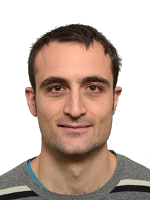
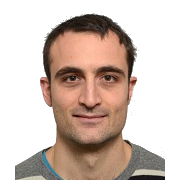
ready

diff --git a/pages/index.js b/pages/index.js
@@ -6,9 +6,10 @@ import { Card } from '../components/presentational/card'
 import Tag from '../components/presentational/tag'
 
 import data from '../data'
-import { extractUniqueTech } from '../helpers'
+import { extractUniqueTech, boldName } from '../helpers'
 
 export default function Home() {
+	const { firstName, lastName, home, profileImg, webApps } = { ...data }
   return (
 		<Layout home>
 
@@ -20,59 +21,39 @@ export default function Home() {
 				<div className="mt-5 text-center">
 					<Image
 						priority
-						src="/images/profile-square.png"
-						height={150}
-						width={150}
-						alt="Giacomo Mariani"
-						className="rounded-full h-24 w-24"
+						src={profileImg.src}
+						height={profileImg.height}
+						width={profileImg.width}
+						alt={`${firstName} ${lastName}`}
+						className="rounded-full h-24 w-24 border-2 border-mint border-solid"
 					/>
 				</div>
 				<div className="p-2 mt-5">
-					<h1 className="mb-5">Hi! I am <b>Giacomo Mariani.</b></h1>
-					<h2 className="md:ml-9 md:pl-9">This is my web development portfolio.</h2>
+					<h1 className="mb-5">{boldName(home.heading, firstName, lastName)}</h1>
+					<h2 className="md:ml-9 md:pl-9">{home.intro}</h2>
 				</div>
       </section>
 
 			<section>
 				<h2 className="text-xl font-medium mb-1 mt-3 text-center">Projects</h2>
 				<div className="sm:flex sm:flex-wrap gap-5 justify-between mt-8 mb-5 mr-auto ml-auto w-11/12">
-
-						<Card 
-							link="/webapps/favorite-blogs"
-							heading="Favorite Blogs web app &rarr;"
-							text="A web application to save and share your favorite blogs"
-						/>
-
-						<Card 
-							link="/webapps/zlib-pump"
-							heading="Zlib Pump web app &rarr;"
-							text="A web application to inflate and deflate zlib strings"
-						/>
-
-						<Card
-							link="/webapps/jsav-player"
-							heading="Record and replay algorithm exercises &rarr;"
-							text="A test application for recording and replaying visual algorithm simulation exercises"
-						/>
-
-						<Card
-							link="/webapps/iwdap"
-							heading="Introduction to Web Development and Programming &rarr;"
-							text="An online course where I have contributed as web developer and teaching assistant"
-						/>
-				
-						<Card
-							link="/webapps/portfolio"
-							heading="Web Development Portfolio &rarr;"
-							text="This web site I created to share my web development projects"
-						/>
+					{
+						Object.entries(webApps).map( (e, i) => {		
+							return <Card 
+								link={ `/webapps/${e[0]}` }
+								heading={e[1].title?? ''}
+								text={e[1].short?? ''}
+								key={i}
+							/>
+						})
+					}
 				</div>
 			</section>
 			
 			<section>
 				<h2 className="text-xl font-medium mb-1 mt-3 text-center">Technologies</h2>
 				<div className="flex flex-wrap mb-10 mt-3">
-					{ Array.from(extractUniqueTech(data.webApps)).concat('SQL').map( (t, i) => <Tag key={i} text={t} />)}
+					{ Array.from(extractUniqueTech(webApps)).concat('SQL').map( (t, i) => <Tag key={i} text={t} />)}
 				</div>
 			</section>
 

diff --git a/pages/publications/index.js b/pages/publications/index.js
@@ -1,22 +1,25 @@
 import Layout from '../../components/container/layout'
 import Anchor from '../../components/presentational/anchor'
-import data from '../../data/publications'
+
+import data from '../../data'
+import { boldName } from '../../helpers'
 
 export default function Publications() {
+	const { firstName, lastName, publications }  = { ...data }
 	return ( 
 		<Layout>
 			<h1 className="text-2xl font-medium mb-1 mt-4" >Publications</h1>
 			<p className="mt-3">
-				I am a doctoral student at the Computer Science department of Aalto University. Here are my academic publications.
+				{ publications.intro }
 			</p>
 			<ul>
 					{
-						data.map( (p, i) => {
+						publications.articles.map( (p, i) => {
 							return (
 								<div key={i} className="mt-3">
 								<li>
 									<Anchor href={p.url} newWindow>
-										{ boldName(p.title, 'Giacomo', 'Mariani')}
+										{ boldName(p.title, firstName, lastName)}
 									</Anchor>
 								</li>
 								</div>
@@ -26,32 +29,4 @@ export default function Publications() {
 			</ul>
 		</Layout>
 	)
-}
-
-function boldName(text, firstName, lastName){
-	if(text.includes(`${firstName} ${lastName}`)) {
-		return (
-		<> 
-			{text.split(`${firstName} ${lastName}`)[0]} <b>{`${firstName} ${lastName}`}</b> {text.split(`${firstName} ${lastName}`)[1]}
-		</>
-		)
-	} else if(text.includes(`${lastName} ${firstName}`)) {
-		return (
-		<> 
-			{text.split(`${lastName} ${firstName}`)[0]} <b>{`${lastName} ${firstName}`}</b> {text.split(`${lastName} ${firstName}`)[1]}
-		</>
-		)
-	} else	if(text.includes(`${firstName}, ${lastName}`)) {
-		return (
-		<> 
-			{text.split(`${firstName}, ${lastName}`)[0]} <b>{`${firstName}, ${lastName}`}</b> {text.split(`${firstName}, ${lastName}`)[1]}
-		</>
-		)
-	} else if(text.includes(`${lastName}, ${firstName}`)) {
-		return (
-		<> 
-			{text.split(`${lastName}, ${firstName}`)[0]} <b>{`${lastName}, ${firstName}`}</b> {text.split(`${lastName}, ${firstName}`)[1]}
-		</>
-		)
-	}
 }

diff --git a/data/publications/index.js b/data/publications/index.js
@@ -4,11 +4,13 @@ export default [
 		url: 'https://dl.acm.org/doi/abs/10.1145/3428029.3428053?casa_token=W1wpybFrrOUAAAAA%3AH12P0nldzi4mPYnHPsGKC_Kg_dzwih-d7_CkEoUVIIEpwKMkzMa_qeUv-DHkZyXg8UBQcO1Kgbje'
 	},
 	{
-		title: `Korhonen, Ari, Giacomo Mariani, Peter Sormunen, Jan-Mikael Rybicki, Aleksi Lukkarinen, Lassi Haaranen, Artturi Tilanterä, and Juha Sorva. "New Acos Content Types."`,
-		url: 'https://www.researchgate.net/profile/Giacomo-Mariani-3/publication/350134484_New_Acos_Content_Types/links/607fc504907dcf667bb1204b/New-Acos-Content-Types.pdf'
+		title: `Korhonen, Ari, Giacomo Mariani, Peter Sormunen, Jan-Mikael Rybicki, Aleksi Lukkarinen, Lassi Haaranen, Artturi Tilanterä, and Juha Sorva. "New Acos Content Types". 
+		In Proceedings of SPLICE 2021 workshop CS Education Infrastructure for All III: From Ideas to Practice at 52nd ACM Technical Symposium on Computer Science Education, 
+		March 15-16, 2021, Virtual Event`,
+		url: 'https://cssplice.github.io/SIGCSE21/proc/SPLICE2021_SIGCSE_paper_3.pdf'
 	},
 	{
-		title: `Mariani, Giacomo. "Design of an application to collect data and create animations from Visual Algorithm Simulation exercises." (2020).`,
+		title: `Mariani, Giacomo. "Design of an application to collect data and create animations from Visual Algorithm Simulation exercises." 2020.`,
 		url: 'https://aaltodoc.aalto.fi/bitstream/handle/123456789/44448/master_Mariani_Giacomo_2020.pdf?sequence=1&isAllowed=y'
 	}
 ]

diff --git a/helpers/index.js b/helpers/index.js
@@ -20,3 +20,31 @@ export const extractUniqueTech = (data) => {
 	}) 
 	return skills
 }
+
+export const boldName = (text, firstName, lastName) => {
+	if(text.includes(`${firstName} ${lastName}`)) {
+		return (
+		<> 
+			{text.split(`${firstName} ${lastName}`)[0]} <b>{`${firstName} ${lastName}`}</b> {text.split(`${firstName} ${lastName}`)[1]}
+		</>
+		)
+	} else if(text.includes(`${lastName} ${firstName}`)) {
+		return (
+		<> 
+			{text.split(`${lastName} ${firstName}`)[0]} <b>{`${lastName} ${firstName}`}</b> {text.split(`${lastName} ${firstName}`)[1]}
+		</>
+		)
+	} else	if(text.includes(`${firstName}, ${lastName}`)) {
+		return (
+		<> 
+			{text.split(`${firstName}, ${lastName}`)[0]} <b>{`${firstName}, ${lastName}`}</b> {text.split(`${firstName}, ${lastName}`)[1]}
+		</>
+		)
+	} else if(text.includes(`${lastName}, ${firstName}`)) {
+		return (
+		<> 
+			{text.split(`${lastName}, ${firstName}`)[0]} <b>{`${lastName}, ${firstName}`}</b> {text.split(`${lastName}, ${firstName}`)[1]}
+		</>
+		)
+	}
+}

diff --git a/data/index.js b/data/index.js
@@ -3,13 +3,32 @@ import iwdap from './webapps/iwdap'
 import jsavPlayer from './webapps/jsav-player'
 import portfolio from './webapps/portfolio'
 import zlibPump from './webapps/zlib-pump'
+import articles from './publications'
+
+const firstName = 'Giacomo'
+const lastName = 'Mariani'
 
 export default {
+	firstName,
+	lastName,
+	profileImg: {
+		src: '/images/profile.png', 
+		width: 150,
+		height: 150
+	},
+	home: {
+		heading: `Hi!, I am ${firstName} ${lastName}.`,
+		intro: `This is my web development portfolio`
+	},
 	webApps: { 
-		favoriteBlogs,
+		'favorite-blogs': favoriteBlogs,
+		'zlib-pump': zlibPump,
 		iwdap,
-		jsavPlayer,
+		'jsav-player': jsavPlayer,
 		portfolio,
-		zlibPump
+	},
+	publications: {
+		intro: `I am a doctoral student at the Computer Science department of Aalto University. Here are my academic publications.`,
+		articles,
 	}
 }

diff --git a/data/webapps/iwdap.js b/data/webapps/iwdap.js
@@ -5,7 +5,8 @@ const data = {
 		src: '/images/iwdap.jpg',
 		alt: 'Screenshot from Introduction to Web Development and Programming homepage'
 	},
-	title: 'IWDAP - Introduction to Web Development and Programming',
+	short: 'An online course where I have contributed as web developer and teaching assistant',
+	title: 'Introduction to Web Development and Programming',
 	intro: `IWDAP is an online course, and a platform. I have been part of the project both as web developer,
 	mainly developing the Q&A part of the platform, and as a teaching assistant, creating exercises and helping students`,
 	technologies: {

diff --git a/data/webapps/jsav-player.js b/data/webapps/jsav-player.js
@@ -6,6 +6,7 @@ const data = {
 		alt: `Screenshot from the homepage of the test application for recording and replaying 
 		visual algorithm simulation exercises`
 	},
+	short: 'A test application for recording and replaying visual algorithm simulation exercises',
 	title: 'Visual Algorithm Simulations Recorder & Player',
 	intro: `This project started as my master thesis. The aim was to develop a way to record and replay 
 	students submissions from visual algorithm simulation exercises. The exercises are from an existing repository,

diff --git a/data/webapps/favorite-blogs.js b/data/webapps/favorite-blogs.js
@@ -5,7 +5,8 @@ const data = {
 		src: '/images/favoriteblogs.jpg',
 		alt: 'Screenshot from favorite blogs application homepage'
 	},
-	title: 'Favorite Blogs',
+	short: `A web application to save and share your favorite blog`,
+	title: 'Favorite Blogs web app',
 	intro: `Initially I developed this application when I took a full stack web development course.
 	I kept maintaining and updating it, and added some extra features not present in the original verison.`,
 	technologies: {

diff --git a/data/webapps/zlib-pump.js b/data/webapps/zlib-pump.js
@@ -5,6 +5,7 @@ const data = {
 		src: '/images/zlibpump.jpg',
 		alt: 'Screenshot from Zlib Pump homepage'
 	},
+	short: 'A web application to inflate and deflate zlib strings',
 	title: 'Zlib Pump',
 	intro: `Zlib Pump is a web application to deflate strings from ASCII and Hex, to Hex and Base64 using zlib.
 	I first developed the application when I need such a tool for a catch-the-flag challange. Later I improved it and

diff --git a/components/presentational/card.js b/components/presentational/card.js
@@ -4,7 +4,7 @@ export const Card = ({link, heading, text, classes}) => {
 	return (
 		<Link href={link}>
 			<a className={`sm:w-2/5 block m-2 p-2 border-solid border-2 rounded-md overflow-scroll border-marine ${classes?? ''}`} >
-				<h2 className="font-medium">{heading}</h2>
+				<h2 className="font-medium">{heading} &rarr;</h2>
 				<p className="font-light">{text}</p>
 			</a>
 		</Link>

diff --git a/data/webapps/portfolio.js b/data/webapps/portfolio.js
@@ -3,6 +3,7 @@ const data = {
 	intro: `I created this web site to have a web development focused online portfolio.
 	The project is open source, and I hope it will help other people in creating their own
 	web development online portfolio`,
+	short: 'This web site I created to share my web development projects',
 	technologies: {
 		frontend: ['Next.js', 'React', 'Tailwindcss']
 	},
